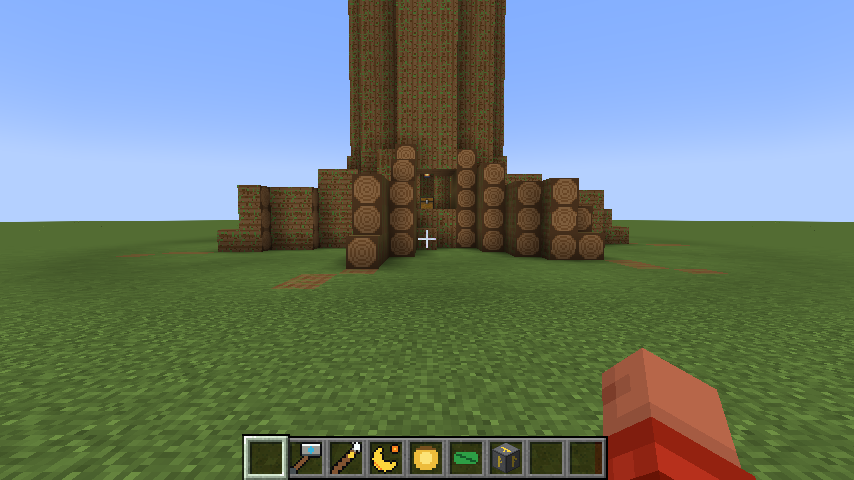
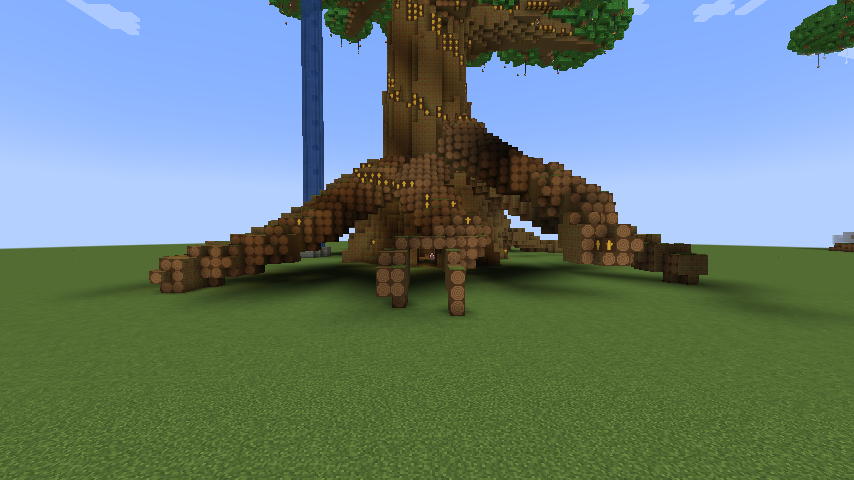
Site and README: the new Yggdrasil, with day, dusk and rune-glow captures

diff --git a/site/structures.html b/site/structures.html
@@ -25,8 +25,8 @@
 <section class="page">
   <p class="eyebrow">Structures</p>
   <h1 class="mc-h">Norse structures in the world</h1>
-  <p class="lede">Three structures generate in new worlds. Each hides a relic in its chest. Walk, look, and bring a sword.</p>
-  <section class="struct" id="yggdrasil"><h2>Yggdrasil</h2><p>A giant hollow tree, 41 blocks across and 50 high, with roots, branches, a canopy cut by shafts of sunlight and lanterns hung beneath it. A doorway at the foot leads to a chest inside.</p><div class="shots two"><figure class="shot"><img src="/img/shots/yggdrasil.png" alt="Yggdrasil from a distance: a broad dark tree on a flat plain." width="854" height="480" loading="lazy"><figcaption>Yggdrasil from a distance, in a flat test world.</figcaption></figure><figure class="shot"><img src="/img/shots/yggdrasil-door.png" alt="The foot of Yggdrasil: roots and a doorway into the trunk." width="854" height="480" loading="lazy"><figcaption>The doorway at the foot, with the chest inside.</figcaption></figure></div><table class="data"><caption class="sr">Yggdrasil: facts</caption><tbody><tr><th scope="row">Size</th><td>41 by 41 blocks, 50 high (15,979 blocks)</td></tr><tr><th scope="row">Spacing</th><td>One in every 40 by 40 chunks, at least 12 chunks from the next</td></tr><tr><th scope="row">Biomes</th><td>taiga, forest</td></tr><tr><th scope="row">Chest</th><td>The hollow holds the Gjallarhorn, fruit, leaves and a golden apple. 1 in 4 chests (25%) hold the relic.</td></tr></tbody></table></section><section class="struct" id="thors_shrine"><h2>Thor’s shrine</h2><p>A stone dais with four lightning-rod pillars, a spire, a gold block altar and a chest. Lightning strikes the rods in a storm.</p><div class="shots two"><figure class="shot"><img src="/img/shots/shrine.png" alt="Thor’s shrine: four pillars topped with lightning rods around a central spire." width="854" height="480" loading="lazy"><figcaption>Thor’s shrine in a flat test world.</figcaption></figure></div><table class="data"><caption class="sr">Thor’s shrine: facts</caption><tbody><tr><th scope="row">Size</th><td>13 by 13 blocks, 12 high (330 blocks)</td></tr><tr><th scope="row">Spacing</th><td>One in every 28 by 28 chunks, at least 10 chunks from the next</td></tr><tr><th scope="row">Biomes</th><td>mountain, hill, plains, forest</td></tr><tr><th scope="row">Chest</th><td>The altar chest holds Mjölnir, metal and rune stone. 2 in 5 chests (40%) hold the relic.</td></tr></tbody></table></section><section class="struct" id="rune_circle"><h2>Rune circle</h2><p>Eight rune-stone pillars around a mossy floor, a chest and a soul lantern at the centre.</p><div class="shots two"><figure class="shot"><img src="/img/shots/rune-circle.png" alt="The rune circle: eight pillars carved with gold runes around a mossy floor." width="854" height="480" loading="lazy"><figcaption>The rune circle in a flat test world.</figcaption></figure></div><table class="data"><caption class="sr">Rune circle: facts</caption><tbody><tr><th scope="row">Size</th><td>13 by 13 blocks, 6 high (155 blocks)</td></tr><tr><th scope="row">Spacing</th><td>One in every 20 by 20 chunks, at least 8 chunks from the next</td></tr><tr><th scope="row">Biomes</th><td>taiga, forest, hill, plains</td></tr><tr><th scope="row">Chest</th><td>The chest holds Gungnir, ingredients for the gods’ potions and rune stone. 1 in 6 chests (17%) hold the relic.</td></tr></tbody></table></section>
+  <p class="lede">Three structures generate in new worlds. Each hides a relic in its chest. Walk, look, and bring a sword. Yggdrasil is the largest.</p>
+  <section class="struct" id="yggdrasil"><h2>Yggdrasil</h2><p>The world tree: a buttressed trunk with a gold rune spiral, root ridges that run out along the ground, sprawling branches under raised leaf clusters, a walkway with lanterns along one branch, vines and hanging lanterns, two waterfalls falling into stone-ringed pools, and an amethyst hollow at its foot with a doorway and a chest. Six variants are in the world pool, so no two trees need match.</p><div class="shots two"><figure class="shot"><img src="/img/shots/yggdrasil.png" alt="Yggdrasil by day: a huge tree with root ridges, two waterfalls and a wide canopy." width="854" height="480" loading="lazy"><figcaption>By day. A flat test world; the grass and sky are vanilla.</figcaption></figure><figure class="shot"><img src="/img/shots/yggdrasil-dusk.png" alt="Yggdrasil at dusk against an orange sky." width="854" height="480" loading="lazy"><figcaption>At dusk.</figcaption></figure><figure class="shot"><img src="/img/shots/yggdrasil-glow.png" alt="Looking up the trunk: a spiral of gold runes beside a waterfall." width="854" height="480" loading="lazy"><figcaption>Looking up the trunk, along the rune spiral.</figcaption></figure><figure class="shot"><img src="/img/shots/yggdrasil-lanterns.png" alt="Under a branch: glowing gold runes set into the wood, with leaves and the sunset beyond." width="854" height="480" loading="lazy"><figcaption>Rune veins under a branch.</figcaption></figure><figure class="shot"><img src="/img/shots/yggdrasil-door.png" alt="The root ridges and the doorway at the foot of the tree." width="854" height="480" loading="lazy"><figcaption>The foot of the tree and its doorway.</figcaption></figure></div><table class="data"><caption class="sr">Yggdrasil: facts</caption><tbody><tr><th scope="row">Size</th><td>85 by 85 blocks, 100 high (about 66,562 blocks, six variants)</td></tr><tr><th scope="row">Spacing</th><td>One in every 40 by 40 chunks, at least 12 chunks from the next</td></tr><tr><th scope="row">Biomes</th><td>taiga, forest</td></tr><tr><th scope="row">Chest</th><td>The hollow holds the Gjallarhorn, fruit, leaves and a golden apple. 1 in 4 chests (25%) hold the relic.</td></tr></tbody></table></section><section class="struct" id="thors_shrine"><h2>Thor’s shrine</h2><p>A stone dais with four lightning-rod pillars, a spire, a gold block altar and a chest. Lightning strikes the rods in a storm.</p><div class="shots two"><figure class="shot"><img src="/img/shots/shrine.png" alt="Thor’s shrine: four pillars topped with lightning rods around a central spire." width="854" height="480" loading="lazy"><figcaption>Thor’s shrine in a flat test world.</figcaption></figure></div><table class="data"><caption class="sr">Thor’s shrine: facts</caption><tbody><tr><th scope="row">Size</th><td>13 by 13 blocks, 12 high (about 330 blocks)</td></tr><tr><th scope="row">Spacing</th><td>One in every 28 by 28 chunks, at least 10 chunks from the next</td></tr><tr><th scope="row">Biomes</th><td>mountain, hill, plains, forest</td></tr><tr><th scope="row">Chest</th><td>The altar chest holds Mjölnir, metal and rune stone. 2 in 5 chests (40%) hold the relic.</td></tr></tbody></table></section><section class="struct" id="rune_circle"><h2>Rune circle</h2><p>Eight rune-stone pillars around a mossy floor, a chest and a soul lantern at the centre.</p><div class="shots two"><figure class="shot"><img src="/img/shots/rune-circle.png" alt="The rune circle: eight pillars carved with gold runes around a mossy floor." width="854" height="480" loading="lazy"><figcaption>The rune circle in a flat test world.</figcaption></figure></div><table class="data"><caption class="sr">Rune circle: facts</caption><tbody><tr><th scope="row">Size</th><td>13 by 13 blocks, 6 high (about 155 blocks)</td></tr><tr><th scope="row">Spacing</th><td>One in every 20 by 20 chunks, at least 8 chunks from the next</td></tr><tr><th scope="row">Biomes</th><td>taiga, forest, hill, plains</td></tr><tr><th scope="row">Chest</th><td>The chest holds Gungnir, ingredients for the gods’ potions and rune stone. 1 in 6 chests (17%) hold the relic.</td></tr></tbody></table></section>
   <p class="meta">Status: all three generate with the game’s <code>/place structure</code> command on a Minecraft 1.21.4 server, and the captures above are from that client in a flat test world (the stone, trees and sky are vanilla). That the structures appear on their own in a fresh survival world is not yet confirmed: the game’s <code>/locate</code> found nothing near spawn on the test seed, and the same search for a vanilla village also found nothing, so that test proved neither way.</p>
 </section>
 </main>

diff --git a/site/index.html b/site/index.html
@@ -44,7 +44,7 @@
   <p class="meta">The picture shows Thor’s Valor. The bottles are illustrations, not captures from the game, and the potion’s bottle colour here is a design choice. A brew in a world is not yet tested.</p>
 </section>
 <section class="band"><h2>In the game</h2><div class="shots two"><figure class="shot"><img src="/img/shots/thor.png" alt="Thor’s pillar in Minecraft, seen from below: an item frame holding a light-blue ingredient above a sign." width="1280" height="720" loading="lazy"><figcaption>Thor’s pillar. The item frame holds Thunder Iron, and the sign reads ’Thor’.</figcaption></figure><figure class="shot"><img src="/img/shots/odin.png" alt="Odin’s pillar in Minecraft, seen from below: an item frame holding a magenta ingredient above a sign." width="1280" height="720" loading="lazy"><figcaption>Odin’s pillar. The item frame holds Mimir Glass, and the sign reads ’Odin’. The other four pillars read their god’s name.</figcaption></figure></div><p class="meta">Captured from a Minecraft 1.21.4 client joined to a Fabric dedicated server with this mod. The pillars, the arch, the item frames and the signs were built with server commands in a flat test world; only the items and potions are the mod.</p></section>
-<section class="band"><h2>Out in the world</h2><div class="shots two"><figure class="shot"><img src="/img/shots/yggdrasil.png" alt="Yggdrasil, a giant tree, standing on a flat plain." width="854" height="480" loading="lazy"><figcaption>Yggdrasil, 50 blocks high. <a href="/structures.html#yggdrasil">The structures</a></figcaption></figure><figure class="shot"><img src="/img/shots/shrine.png" alt="Thor’s shrine: four lightning-rod pillars around a spire." width="854" height="480" loading="lazy"><figcaption>Thor’s shrine holds Mjölnir. <a href="/relics.html">The relics</a></figcaption></figure></div><p class="meta">Captured in a flat test world on a Minecraft 1.21.4 client; the structures and items are the mod, the grass and sky are vanilla.</p></section>
+<section class="band"><h2>Out in the world</h2><div class="shots two"><figure class="shot"><img src="/img/shots/yggdrasil-dusk.png" alt="Yggdrasil at dusk: a giant tree with root ridges and two waterfalls under an orange sky." width="854" height="480" loading="lazy"><figcaption>Yggdrasil at dusk, 100 blocks high. <a href="/structures.html#yggdrasil">The structures</a></figcaption></figure><figure class="shot"><img src="/img/shots/shrine.png" alt="Thor’s shrine: four lightning-rod pillars around a spire." width="854" height="480" loading="lazy"><figcaption>Thor’s shrine holds Mjölnir. <a href="/relics.html">The relics</a></figcaption></figure></div><p class="meta">Captured in a flat test world on a Minecraft 1.21.4 client; the structures and items are the mod, the grass and sky are vanilla.</p></section>
 
 </main>
 <footer class="foot">

diff --git a/site/relics.html b/site/relics.html
@@ -36,7 +36,8 @@
   <h2>Blocks</h2>
   <div class="relics">
   <article class="relic"><div class="relic-art"><img class="px" src="/img/items/yggdrasil_log.png" width="96" height="96" alt="Yggdrasil Log"></div><div><h3>Yggdrasil Log</h3><p class="meta">Block</p><ul class="fx"><li>A log: it burns, an axe breaks it fastest, and it is in the logs tag.</li></ul></div></article>
-  <article class="relic"><div class="relic-art"><img class="px" src="/img/items/yggdrasil_leaves.png" width="96" height="96" alt="Yggdrasil Leaves"></div><div><h3>Yggdrasil Leaves</h3><p class="meta">Block</p><ul class="fx"><li>Leaves that do not decay. They drop a leaf or a fruit.</li></ul></div></article>
+  <article class="relic"><div class="relic-art"><img class="px" src="/img/items/yggdrasil_leaves.png" width="96" height="96" alt="Yggdrasil Leaves"></div><div><h3>Yggdrasil Leaves</h3><p class="meta">Block</p><ul class="fx"><li>Leaves that do not decay. They drop a leaf or a fruit, and now and then a gold mote drifts from the underside.</li></ul></div></article>
+  <article class="relic"><div class="relic-art"><img class="px" src="/img/items/yggdrasil_rune.png" width="96" height="96" alt="Yggdrasil Rune"></div><div><h3>Yggdrasil Rune</h3><p class="meta">Block</p><ul class="fx"><li>A glowing gold rune set in the world tree’s bark: light level 12, and it sheds sparks. Axe-mineable; found on Yggdrasil, not crafted.</li></ul></div></article>
   <article class="relic"><div class="relic-art"><img class="px" src="/img/items/rune_stone.png" width="96" height="96" alt="Rune Stone"></div><div><h3>Rune Stone</h3><p class="meta">Block</p><ul class="fx"><li>Craft four from 4 stone bricks and 1 gold nugget. Found building the shrine and the rune circle.</li></ul></div></article>
   </div>
   <p class="meta">Status: the items load, their icons show in a Minecraft 1.21.4 client, and the numbers above are read from the mod’s own data file. Using them (the lightning, the horn, the spear’s glow) and brewing the Blessing are not yet tested in a world.</p>

diff --git a/site/install.html b/site/install.html
@@ -33,7 +33,7 @@
 cd minecraft-asgard
 gradle build
 # the jar is in build/libs/asgard-0.2.0.jar</code></pre>
-  <p>Copy the jar into your <code>mods</code> folder and start the game. The server log line <code>Asgard loaded: 7 potions (6 from data, plus Blessing), 7 brewing recipes, 0 unknown effects skipped; 3 relics, 3 blocks</code> confirms the registration.</p>
+  <p>Copy the jar into your <code>mods</code> folder and start the game. The server log line <code>Asgard loaded: 7 potions (6 from data, plus Blessing), 7 brewing recipes, 0 unknown effects skipped; 3 relics, 4 blocks</code> confirms the registration.</p>
   <h2>Status</h2>
   <p>Builds on Fabric Loom 1.11.8 and Gradle 8. Loaded on a Fabric dedicated server for 1.21.4, and a client joined that server and showed the ingredients, potions, relics and structures (the screenshots on this site). Brewing in a stand, drinking the potions, using the relics and natural structure spawning are not yet tested.</p>
 </section>

diff --git a/_src/build_site.py b/_src/build_site.py
@@ -406,9 +406,9 @@ def build_index(data, gods, palette, names):
         gallery = (f'<section class="band"><h2>In the game</h2><div class="shots two">{figs}</div>'
                    f'<p class="meta">Captured from a Minecraft 1.21.4 client joined to a Fabric dedicated server with this mod. The pillars, the arch, the item frames and the signs were built with server commands in a flat test world; only the items and potions are the mod.</p></section>')
     world = ""
-    if shot("yggdrasil") and shot("shrine"):
+    if shot("yggdrasil-dusk") and shot("shrine"):
         world = (f'<section class="band"><h2>Out in the world</h2><div class="shots two">'
-                 f'<figure class="shot"><img src="{shot("yggdrasil")}" alt="Yggdrasil, a giant tree, standing on a flat plain." width="854" height="480" loading="lazy"><figcaption>Yggdrasil, 50 blocks high. <a href="/structures.html#yggdrasil">The structures</a></figcaption></figure>'
+                 f'<figure class="shot"><img src="{shot("yggdrasil-dusk")}" alt="Yggdrasil at dusk: a giant tree with root ridges and two waterfalls under an orange sky." width="854" height="480" loading="lazy"><figcaption>Yggdrasil at dusk, 100 blocks high. <a href="/structures.html#yggdrasil">The structures</a></figcaption></figure>'
                  f'<figure class="shot"><img src="{shot("shrine")}" alt="Thor\'s shrine: four lightning-rod pillars around a spire." width="854" height="480" loading="lazy"><figcaption>Thor\'s shrine holds Mjölnir. <a href="/relics.html">The relics</a></figcaption></figure></div>'
                  f'<p class="meta">Captured in a flat test world on a Minecraft 1.21.4 client; the structures and items are the mod, the grass and sky are vanilla.</p></section>')
     body = f"""
@@ -554,7 +554,7 @@ def copy_content_items():
     import shutil
     for n in ("mjolnir", "gungnir", "gjallarhorn", "yggdrasil_leaf", "yggdrasil_fruit"):
         shutil.copyfile(ASSETS / "textures/item" / f"{n}.png", SITE / "img/items" / f"{n}.png")
-    for n in ("rune_stone", "yggdrasil_log", "yggdrasil_leaves"):
+    for n in ("rune_stone", "yggdrasil_log", "yggdrasil_leaves", "yggdrasil_rune"):
         shutil.copyfile(ASSETS / "textures/block" / f"{n}.png", SITE / "img/items" / f"{n}.png")
 
 
@@ -598,7 +598,8 @@ def build_relics(data, gods, manifest):
   <h2>Blocks</h2>
   <div class="relics">
   {relic_card("yggdrasil_log", "Yggdrasil Log", "Block", ["A log: it burns, an axe breaks it fastest, and it is in the logs tag."], "yggdrasil_log")}
-  {relic_card("yggdrasil_leaves", "Yggdrasil Leaves", "Block", ["Leaves that do not decay. They drop a leaf or a fruit."], "yggdrasil_leaves")}
+  {relic_card("yggdrasil_leaves", "Yggdrasil Leaves", "Block", ["Leaves that do not decay. They drop a leaf or a fruit, and now and then a gold mote drifts from the underside."], "yggdrasil_leaves")}
+  {relic_card("yggdrasil_rune", "Yggdrasil Rune", "Block", ["A glowing gold rune set in the world tree's bark: light level 12, and it sheds sparks. Axe-mineable; found on Yggdrasil, not crafted."], "yggdrasil_rune")}
   {relic_card("rune_stone", "Rune Stone", "Block", ["Craft four from 4 stone bricks and 1 gold nugget. Found building the shrine and the rune circle."], "rune_stone")}
   </div>
   <p class="meta">Status: the items load, their icons show in a Minecraft 1.21.4 client, and the numbers above are read from the mod's own data file. Using them (the lightning, the horn, the spear's glow) and brewing the Blessing are not yet tested in a world.</p>
@@ -613,7 +614,7 @@ def structure_card(slug, title, blurb, chest, relic_item, shot_names, extra):
     chance = chest_chance(chest, relic_item)
     figs = "".join(f'<figure class="shot"><img src="{shot(nm)}" alt="{esc(al)}" width="854" height="480" loading="lazy"><figcaption>{esc(cap)}</figcaption></figure>'
                    for nm, al, cap in shot_names if shot(nm))
-    rows = (f"<tr><th scope=\"row\">Size</th><td>{sx} by {sz} blocks, {sy} high ({n['blocks']:,} blocks)</td></tr>"
+    rows = (f"<tr><th scope=\"row\">Size</th><td>{sx} by {sz} blocks, {sy} high (about {n['blocks']:,} blocks{', six variants' if slug == 'yggdrasil' else ''})</td></tr>"
             f"<tr><th scope=\"row\">Spacing</th><td>One in every {s['spacing']} by {s['spacing']} chunks, at least {s['separation']} chunks from the next</td></tr>"
             f"<tr><th scope=\"row\">Biomes</th><td>{esc(', '.join(biomes(slug)))}</td></tr>"
             f"<tr><th scope=\"row\">Chest</th><td>{esc(extra)} {chance[0]} in {chance[1]} chests ({pct(*chance)}) hold the relic.</td></tr>")
@@ -623,10 +624,13 @@ def structure_card(slug, title, blurb, chest, relic_item, shot_names, extra):
 
 def build_structures(data, gods, manifest):
     cards = "".join([
-        structure_card("yggdrasil", "Yggdrasil", "A giant hollow tree, 41 blocks across and 50 high, with roots, branches, a canopy cut by shafts of sunlight and lanterns hung beneath it. A doorway at the foot leads to a chest inside.",
+        structure_card("yggdrasil", "Yggdrasil", "The world tree: a buttressed trunk with a gold rune spiral, root ridges that run out along the ground, sprawling branches under raised leaf clusters, a walkway with lanterns along one branch, vines and hanging lanterns, two waterfalls falling into stone-ringed pools, and an amethyst hollow at its foot with a doorway and a chest. Six variants are in the world pool, so no two trees need match.",
                        "yggdrasil_hollow", "asgard:gjallarhorn",
-                       [("yggdrasil", "Yggdrasil from a distance: a broad dark tree on a flat plain.", "Yggdrasil from a distance, in a flat test world."),
-                        ("yggdrasil-door", "The foot of Yggdrasil: roots and a doorway into the trunk.", "The doorway at the foot, with the chest inside.")],
+                       [("yggdrasil", "Yggdrasil by day: a huge tree with root ridges, two waterfalls and a wide canopy.", "By day. A flat test world; the grass and sky are vanilla."),
+                        ("yggdrasil-dusk", "Yggdrasil at dusk against an orange sky.", "At dusk."),
+                        ("yggdrasil-glow", "Looking up the trunk: a spiral of gold runes beside a waterfall.", "Looking up the trunk, along the rune spiral."),
+                        ("yggdrasil-lanterns", "Under a branch: glowing gold runes set into the wood, with leaves and the sunset beyond.", "Rune veins under a branch."),
+                        ("yggdrasil-door", "The root ridges and the doorway at the foot of the tree.", "The foot of the tree and its doorway.")],
                        "The hollow holds the Gjallarhorn, fruit, leaves and a golden apple."),
         structure_card("thors_shrine", "Thor's shrine", "A stone dais with four lightning-rod pillars, a spire, a gold block altar and a chest. Lightning strikes the rods in a storm.",
                        "thors_shrine", "asgard:mjolnir",
@@ -641,7 +645,7 @@ def build_structures(data, gods, manifest):
 <section class="page">
   <p class="eyebrow">Structures</p>
   <h1 class="mc-h">Norse structures in the world</h1>
-  <p class="lede">Three structures generate in new worlds. Each hides a relic in its chest. Walk, look, and bring a sword.</p>
+  <p class="lede">Three structures generate in new worlds. Each hides a relic in its chest. Walk, look, and bring a sword. Yggdrasil is the largest.</p>
   {cards}
   <p class="meta">Status: all three generate with the game's <code>/place structure</code> command on a Minecraft 1.21.4 server, and the captures above are from that client in a flat test world (the stone, trees and sky are vanilla). That the structures appear on their own in a fresh survival world is not yet confirmed: the game's <code>/locate</code> found nothing near spawn on the test seed, and the same search for a vanilla village also found nothing, so that test proved neither way.</p>
 </section>"""
@@ -661,7 +665,7 @@ def build_install(data, gods, manifest):
 cd minecraft-asgard
 gradle build
 # the jar is in build/libs/asgard-{esc(manifest['version'])}.jar</code></pre>
-  <p>Copy the jar into your <code>mods</code> folder and start the game. The server log line <code>Asgard loaded: {len(gods) + 1} potions ({len(gods)} from data, plus Blessing), {len(gods) + 1} brewing recipes, 0 unknown effects skipped; 3 relics, 3 blocks</code> confirms the registration.</p>
+  <p>Copy the jar into your <code>mods</code> folder and start the game. The server log line <code>Asgard loaded: {len(gods) + 1} potions ({len(gods)} from data, plus Blessing), {len(gods) + 1} brewing recipes, 0 unknown effects skipped; 3 relics, 4 blocks</code> confirms the registration.</p>
   <h2>Status</h2>
   <p>Builds on Fabric Loom 1.11.8 and Gradle 8. Loaded on a Fabric dedicated server for 1.21.4, and a client joined that server and showed the ingredients, potions, relics and structures (the screenshots on this site). Brewing in a stand, drinking the potions, using the relics and natural structure spawning are not yet tested.</p>
 </section>"""

diff --git a/README.md b/README.md
@@ -10,8 +10,8 @@ Version 0.2 adds the rest of the Norse world:
   [`content.json`](src/main/resources/assets/asgard/content.json), which the site reads too.
 - **Yggdrasil**: log, leaves (drop a leaf or a fruit), a fruit to eat, and the Potion of Blessing (leaf on Awkward
   Potion).
-- **Structures** in new worlds: Yggdrasil (a 41 by 41 by 50 tree with a hollow), Thor's shrine, and the rune circle,
-  each with a chest that can hold a relic. Rune stone is a craftable block.
+- **Structures** in new worlds: Yggdrasil (an 85 by 85 by 100 world tree in six random variants: gold rune spiral, root ridges, branches, a lantern walkway, waterfalls, vines, an amethyst hollow), Thor's shrine, and the rune circle,
+  each with a chest that can hold a relic. Rune stone is a craftable block; the glowing Yggdrasil Rune is found on the tree.
 
 Status: the mod builds and loads on a 1.21.4 Fabric server; all three structures generate with `/place structure`;
 the icons and structures show in a real client. Using the relics, brewing, and natural spawning in a fresh survival world
